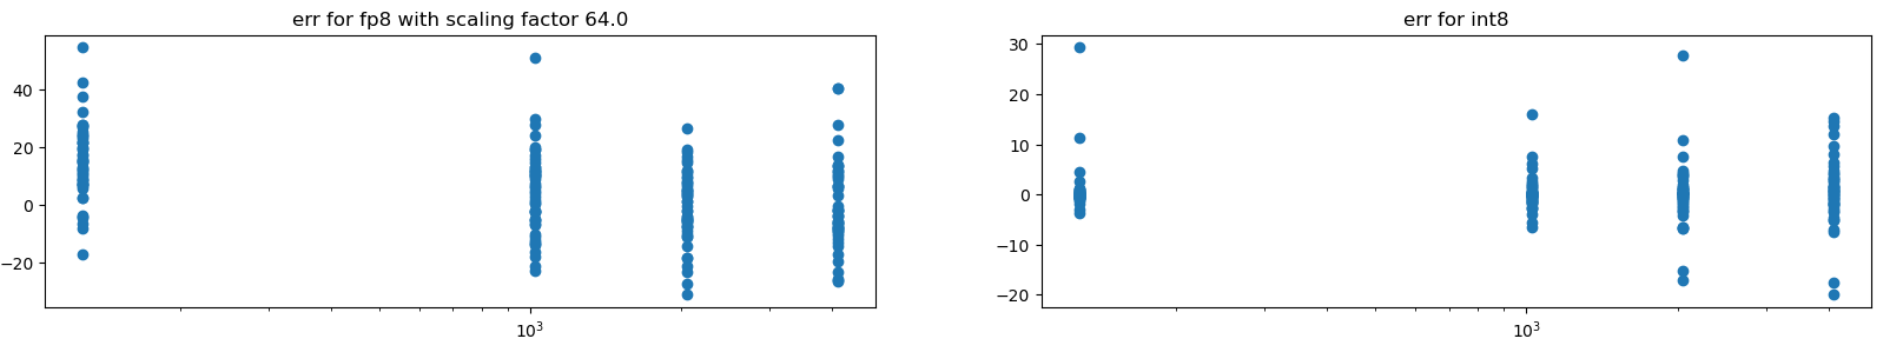
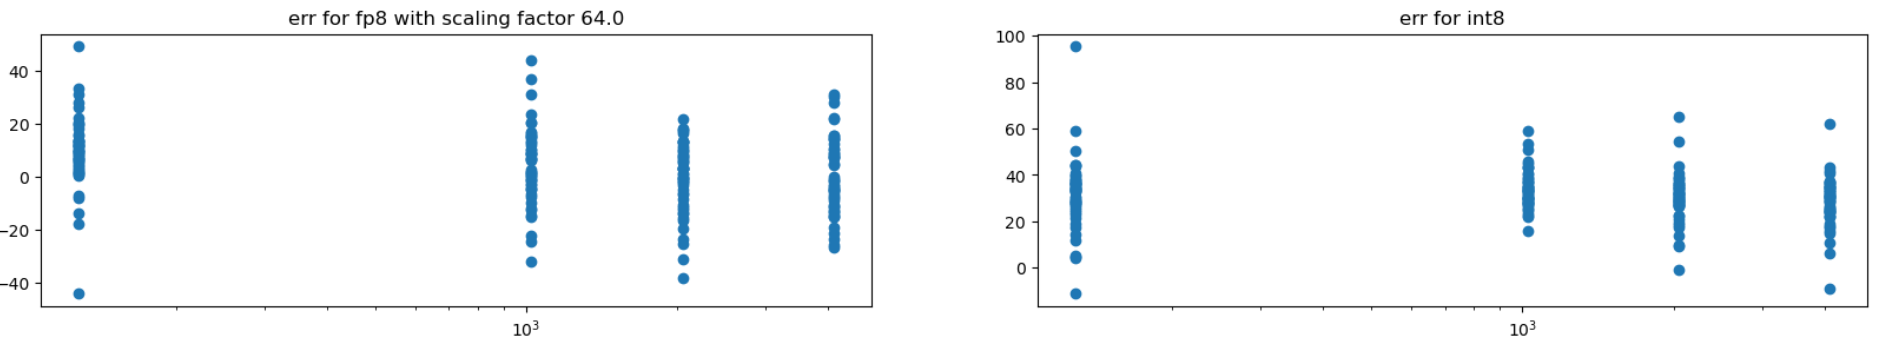
add int8

diff --git a/docs/posts/004 INT8训练.md b/docs/posts/004 INT8训练.md
@@ -57,8 +57,14 @@ def symmetric_dequantize(x_q: torch.Tensor, alpha: float) -> torch.Tensor:
 
 ![alt text](imgs/fp8/int8_vs_fp8.png)
 
-定性来看，信噪比相比FP8并不很差。进一步引入分块量化，看INT8量化方法的上限如何：
+定性来看，INT8的信噪比相比FP8并不很差，最差情况甚至比FP8要好一些。进一步引入分块量化，看INT8量化方法的上限如何：
 
 ![alt text](imgs/fp8/int8_vs_fp8_blockwise.png)
 
 使用分块大小128时，INT8量化方法的信噪比与FP8其互相当，甚至在部分向量长度下甚至略好一些。具体实验代码见：https://github.com/reiase/ieee754_simulation/blob/master/simfloat_fp8_vs_int8.ipynb
+
+## 一些讨论
+
+通过信噪比的实验，我们发现使用分块量化的int8向量内积精度并不一定比fp8差，这个实验需要更加系统性的扩展，比如测试不同的量化方法和round策略。但如果仅仅像TransformerEngine那样替代LLM中原有的矩阵乘法，应该不会有太大问题。推理阶段也可以使用类似LLM.int8的方法[^llm.int8]来保证精度。
+
+[^llm.int8]: [LLM.int8(): 8-bit Matrix Multiplication for Transformers at Scale](https://arxiv.org/pdf/2208.07339)
